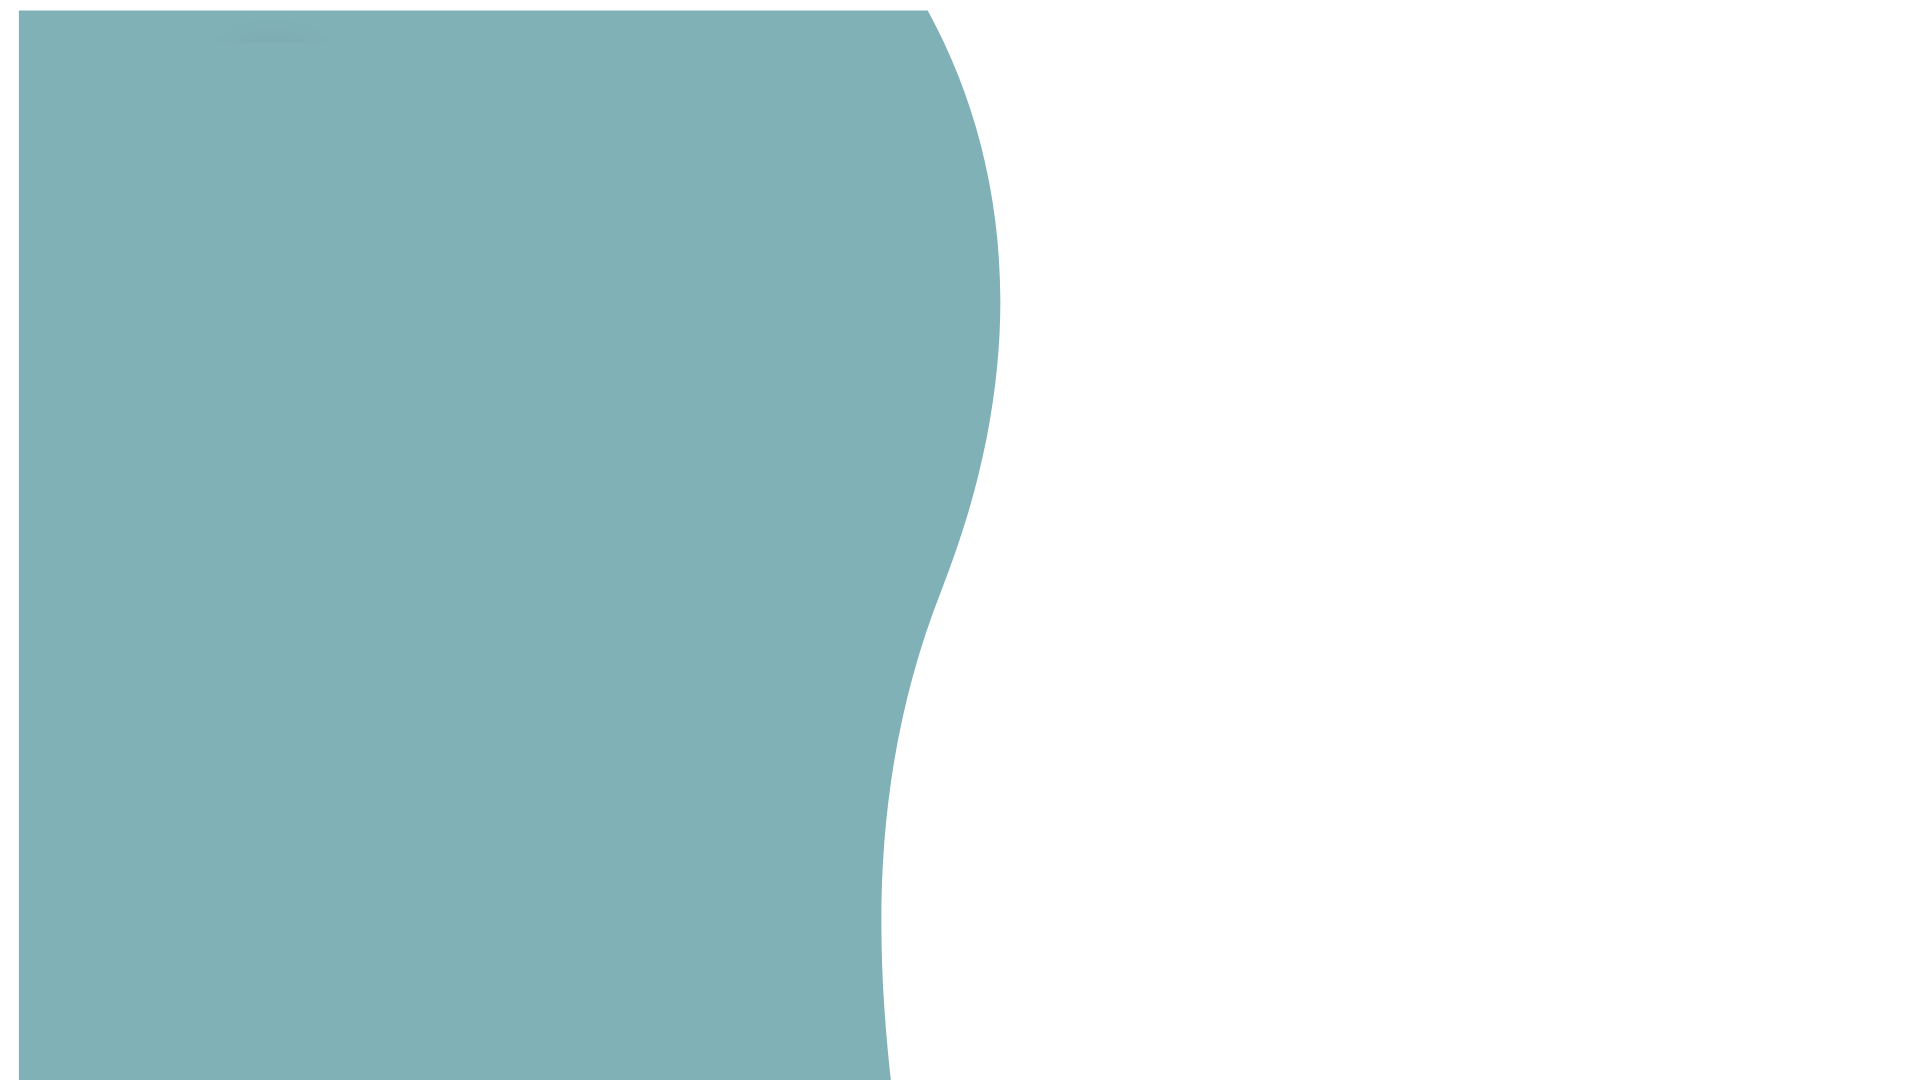
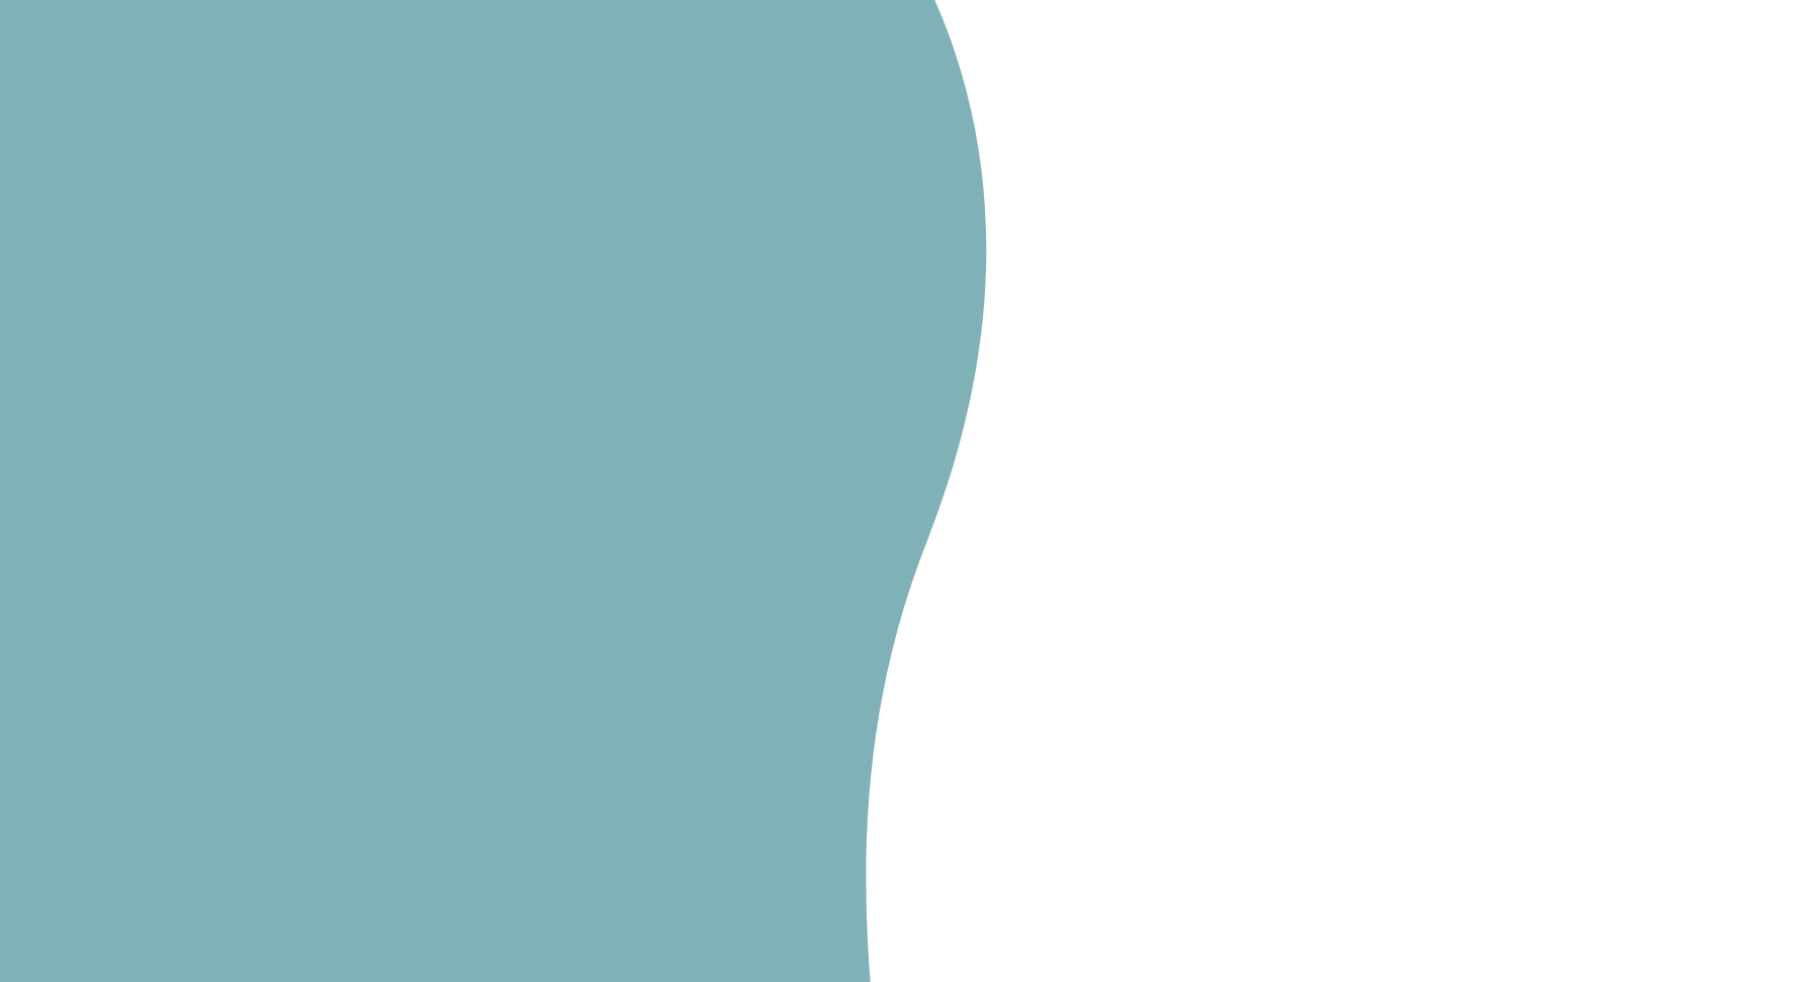
change bg image

Changed region(s): [[0.0, 0.0, 0.5542, 1.0]]

diff --git a/lib/pc/home_page.pc.dart b/lib/pc/home_page.pc.dart
@@ -17,7 +17,7 @@ class HomePagePc extends StatelessWidget {
         decoration: const BoxDecoration(
           image: DecorationImage(
             image: AssetImage("assets/images/bg.png"),
-            fit: BoxFit.fill,
+            fit: BoxFit.cover,
           ),
         ),
         child: ListView(
